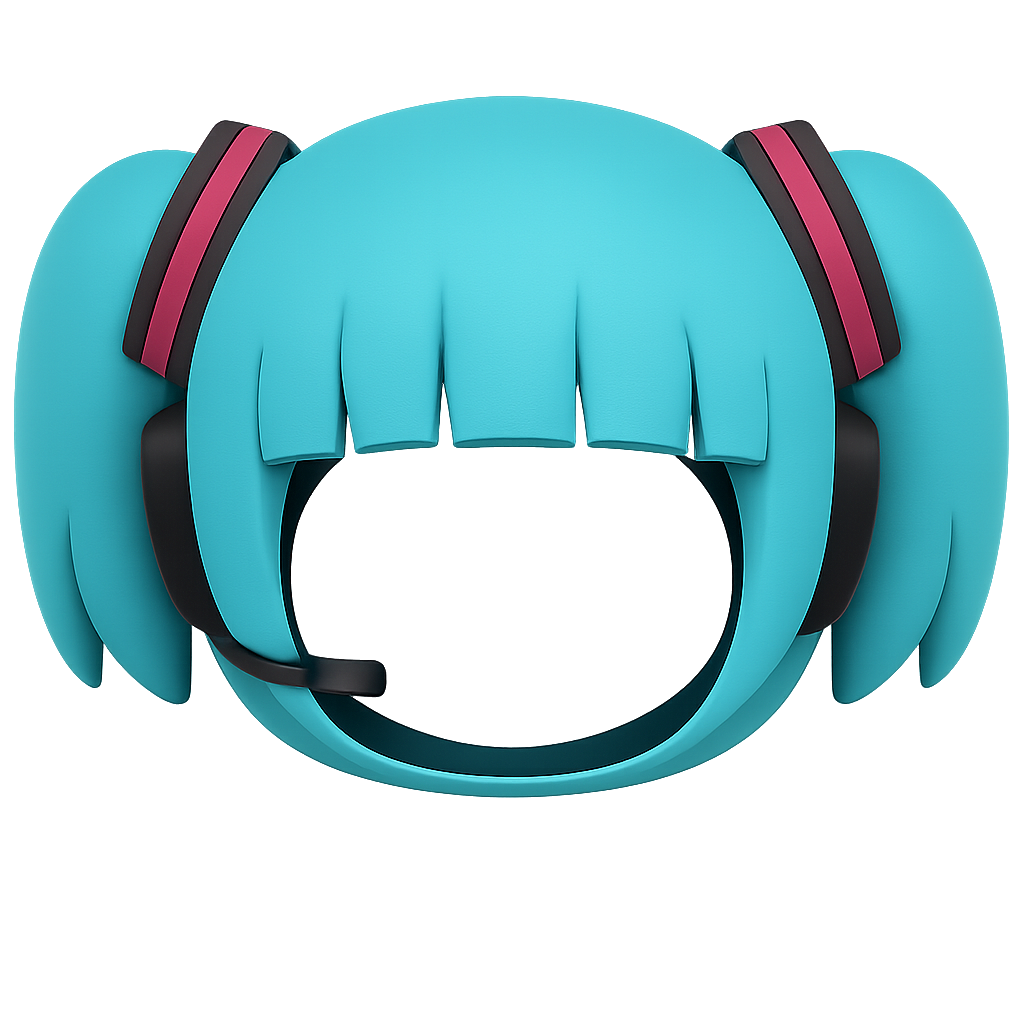
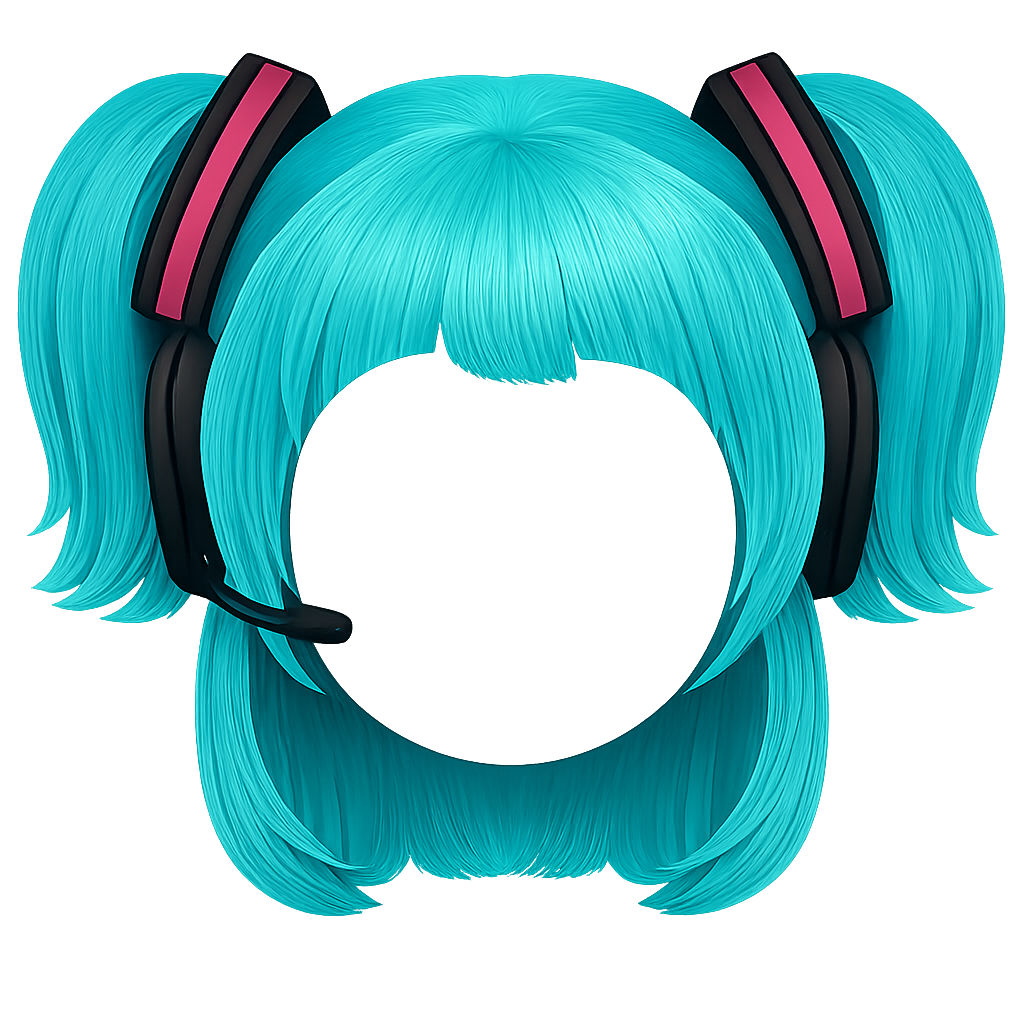
Arte completo: no falta ninguna pieza (USD 1.14)
Se cierran las 25 piezas del catálogo y las 16 imágenes de mascotas. El
clóset queda con 6 cabezas, 8 cuerpos, 4 gorros y 3 collares, y las 4
mascotas con sus 4 ánimos cada una.

La peluca de diva se resolvió cambiando la ESTRATEGIA del prompt, no
insistiendo con el mismo. Pedirle al modelo "cobertura tipo casco" o
"pelo lateral bajo la mandíbula" no funcionó dos veces seguidas: son
instrucciones que describen una intención. Lo que sí funcionó fue atarlo
a algo medible — "misma silueta EXACTA que la capucha de referencia,
cambiando sólo el material de peluche negro a pelo turquesa". Ahora el
pelo negro de ella queda tapado.

La florcita necesitó su propio anchor, como la corona: es el gorro más
bajo y ancho de todos (40% de alto contra el 94% del cono de fiesta).
Calculado con tools/fit_anchor.py.

diff --git a/js/cosmetics.js b/js/cosmetics.js
@@ -74,6 +74,10 @@
   // chiquita y flotando arriba de la cabeza. Este se calculó para que el borde
   // inferior caiga donde apoya el de fiesta (15.9% del stage).
   const A_CORONA = { top: -8, left: 31.8, width: 39 };
+  // La florcita es todavía más baja y ancha que la corona (40% de alto contra
+  // el 94% del cono de fiesta). Calculado con
+  // `tools/fit_anchor.py hat-flor.png --bottom 15.9 --width 30`.
+  const A_FLOR = { top: -8.2, left: 33.6, width: 32.9 };
   // Los collares TAMPOCO comparten anchor, por la misma razón que los gorros:
   // se generan sueltos y cada PNG deja un margen transparente distinto (uno
   // arranca al 15.7% de su cuadro y otro al 8.6%), así que con un anchor común
@@ -117,7 +121,7 @@
       { id: "party", label: "Fiesta", preview: "🎉", love: 15, img: "assets/art/hat-party.png", anchor: A_HAT },
       { id: "gorro", label: "Gorrito", preview: "🧶", love: 30, img: "assets/art/hat-gorro.png", anchor: A_HAT },
       { id: "corona", label: "Corona", preview: "👑", love: 45, img: "assets/art/hat-corona.png", anchor: A_CORONA },
-      { id: "flor", label: "Florcita", preview: "🌸", love: 60, img: "assets/art/hat-flor.png", anchor: A_HAT },
+      { id: "flor", label: "Florcita", preview: "🌸", love: 60, img: "assets/art/hat-flor.png", anchor: A_FLOR },
     ],
     accessory: [
       { id: "none", label: "Ninguno", preview: "🚫" },

diff --git a/sw.js b/sw.js
@@ -1,6 +1,6 @@
 // Service worker: cache the app shell so Gugugaga works offline
 // Bump CACHE whenever the shell changes — activate() drops every older cache.
-const CACHE = "gugugaga-v13";
+const CACHE = "gugugaga-v14";
 const ASSETS = [
   "./",
   "./index.html",

diff --git a/tools/gen_art.py b/tools/gen_art.py
@@ -208,24 +208,24 @@ def _recipes():
     r["head-miku"] = {
         "refs": ["head-penguin.png", "../../miku-referencias/e3b404m7t5.png.webp"],
         "prompt": (
-            "Using the FIRST attached image as the reference for FRAMING and the SECOND "
-            "attached image as the reference for the CHARACTER DESIGN, generate a costume "
-            "WIG for a chibi figurine. "
-            "From the FIRST image keep: the SAME round face opening in the SAME position "
-            "and the SAME size, the same overall size in frame, the same camera framing, "
-            "the same 3D Nendoroid figurine style and the same soft frontal lighting. "
-            "The design: bright turquoise/aqua hair. The wig must COMPLETELY COVER the "
-            "head like a helmet — a full solid cap of turquoise hair with a straight "
-            "turquoise fringe coming down LOW over the forehead, and turquoise side hair "
-            "framing the face all the way down past the jaw, so that NO other hair colour "
-            "could ever show underneath it. Two thick twintails, one on each side, each "
-            "tied at the top with a black and hot-pink band; plus a black futuristic "
-            "headset over the ears with a hot-pink stripe and a small microphone arm "
-            "curving toward the mouth. "
-            "IMPORTANT: keep the twintails SHORT and chunky and FULLY inside the frame — "
-            "do not let them touch or cross the edges of the image, and do not make them "
-            "long. Do not change the size or position of the face opening. "
-            "No head inside the wig, no face, no character, no body. "
+            "Using the FIRST attached image as the reference, generate a HAIR WIG that "
+            "has the EXACT SAME outer silhouette as that hood — the same size, the same "
+            "outline, the same rounded mass covering the top, the back and BOTH SIDES of "
+            "the head down past the chin — and the EXACT SAME round face opening in the "
+            "same position and the same size. "
+            "The ONLY thing that changes is what it is made of: instead of black plush "
+            "fabric it is now bright turquoise/aqua HAIR, with soft visible hair strands, "
+            "plus a straight turquoise fringe hanging over the top edge of the face "
+            "opening, ending just above where the eyes would be. "
+            "Remove the penguin face and beak completely. "
+            "Then add, on top of that same silhouette: two thick turquoise twintails, one "
+            "on each side, each tied at the top with a black and hot-pink band; and a "
+            "black futuristic headset over the ears with a hot-pink stripe and a small "
+            "microphone arm curving toward the mouth. Use the SECOND attached image only "
+            "as a colour and style guide for the hair, the bands and the headset. "
+            "Keep the twintails SHORT and chunky and FULLY inside the frame. "
+            "Do not change the size or position of the face opening. Do not shrink the "
+            "silhouette. No head inside the wig, no face, no character, no body. "
             "Isolated object, centered, transparent background, no shadow, no text."
         ),
     }

diff --git a/tools/preview.py b/tools/preview.py
@@ -35,6 +35,7 @@ A_BODY = {"top": 33, "left": 12, "width": 76}
 A_HAT = {"top": -19, "left": 33, "width": 36}
 # Cada gorro tiene su forma: ver el comentario en js/cosmetics.js.
 A_CORONA = {"top": -8, "left": 31.8, "width": 39}
+A_FLOR = {"top": -8.2, "left": 33.6, "width": 32.9}
 # Cada collar tiene el suyo: ver el comentario en js/cosmetics.js.
 
 CATALOG = {
@@ -65,7 +66,7 @@ CATALOG = {
         "party": ("hat-party.png", A_HAT),
         "gorro": ("hat-gorro.png", A_HAT),
         "corona": ("hat-corona.png", A_CORONA),
-        "flor": ("hat-flor.png", A_HAT),
+        "flor": ("hat-flor.png", A_FLOR),
     },
 }
 BASE = "girl-base.png"  # the expression layer (girl face)
